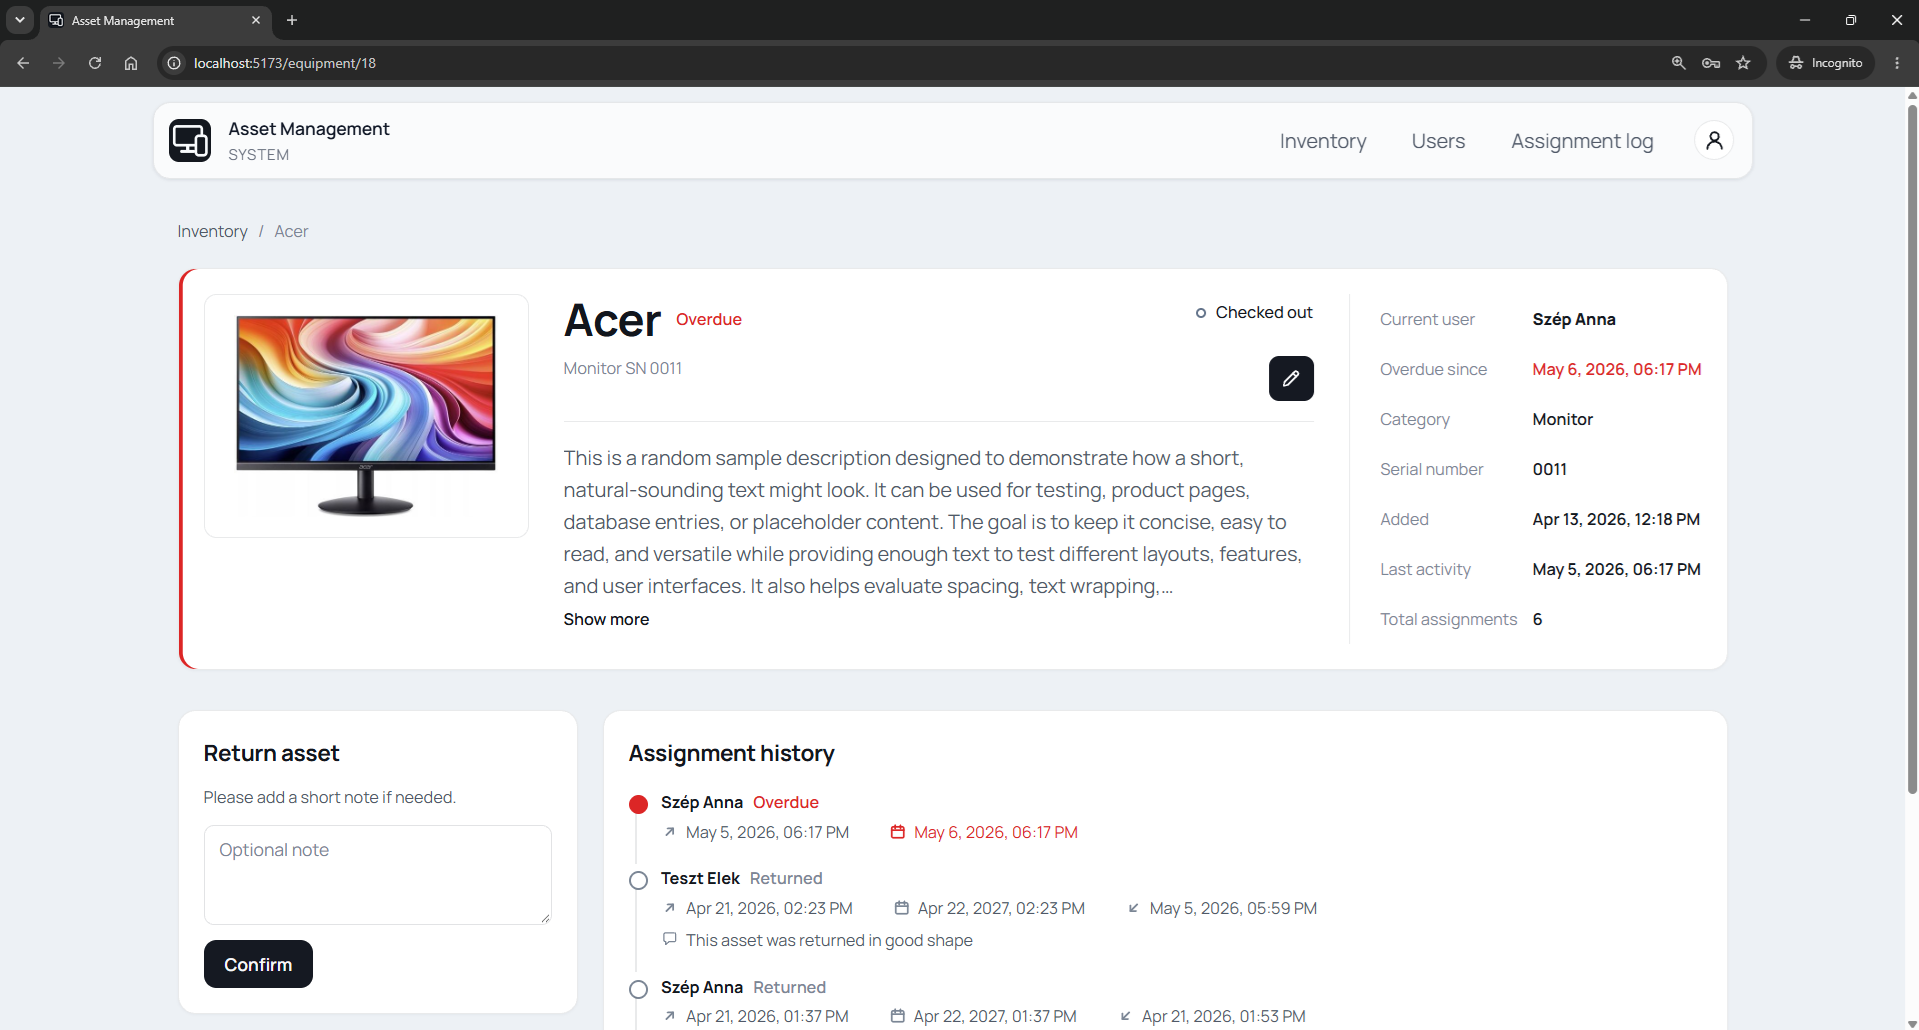
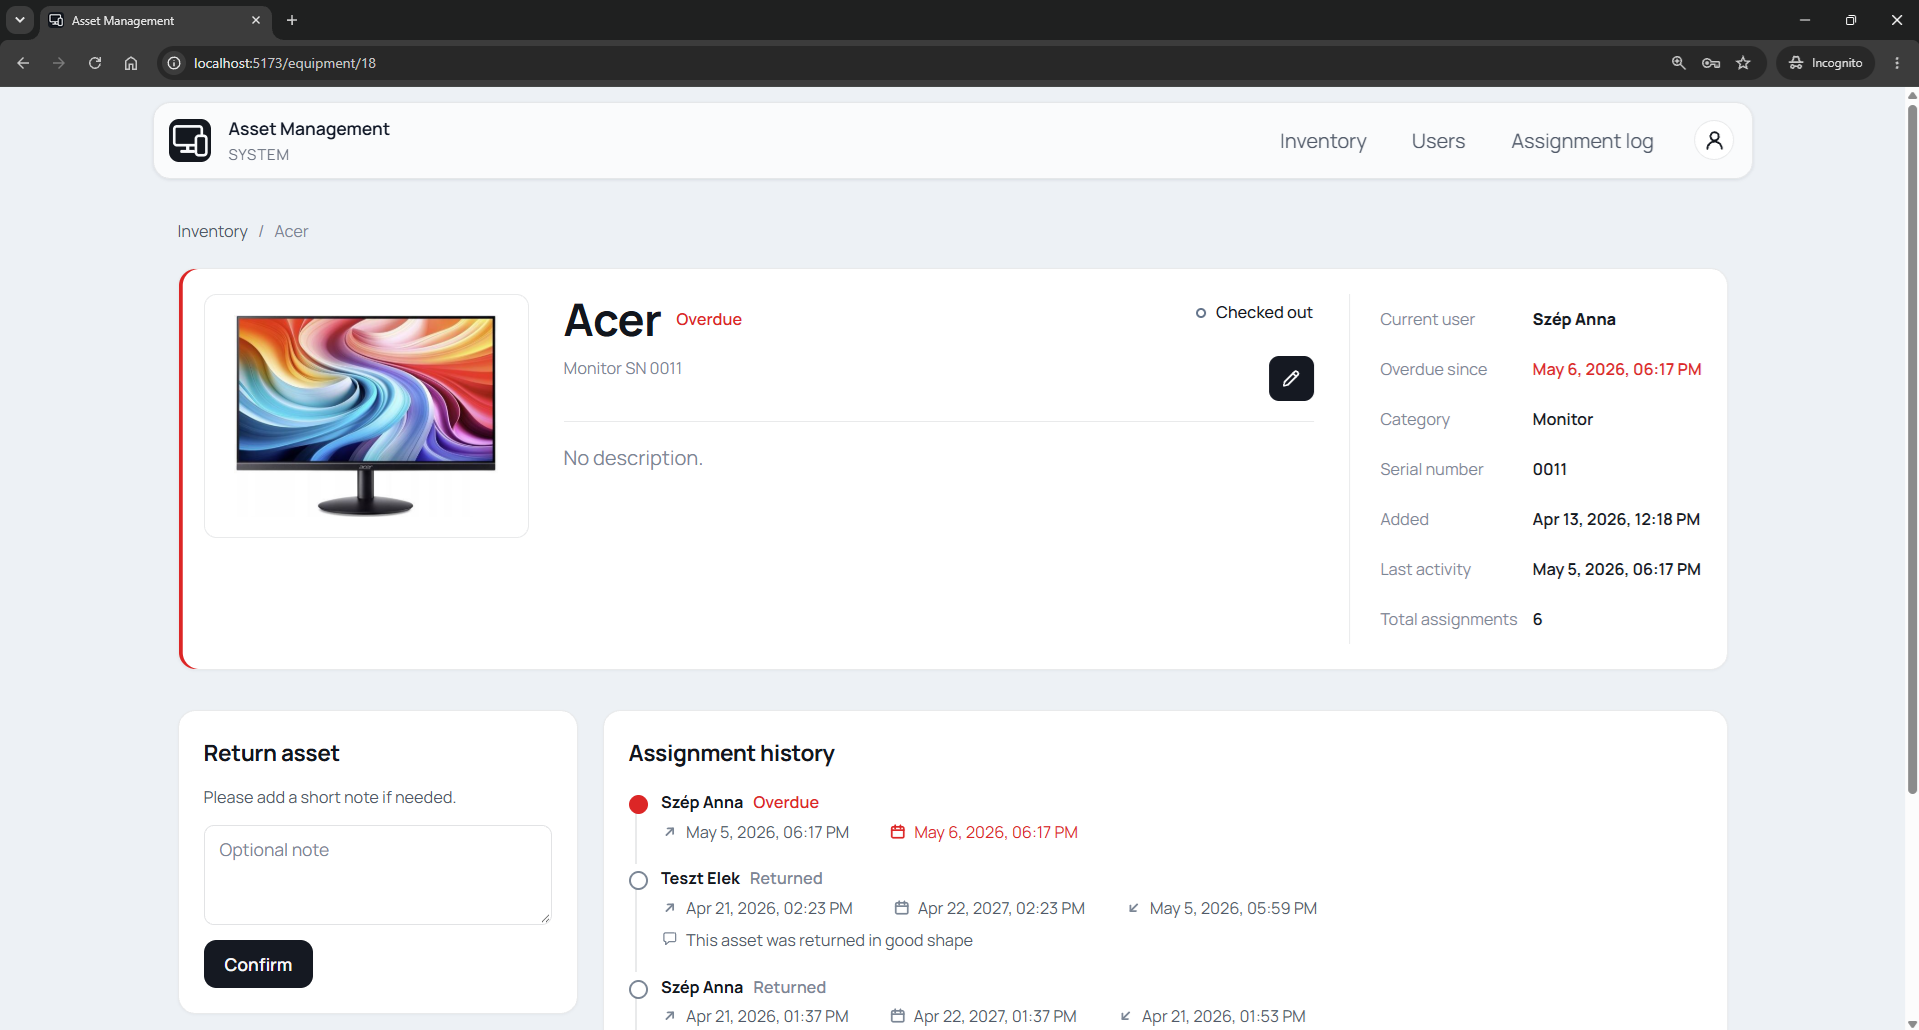
docs(readme): add the demo section and restructure the README

Changed region(s): [[0.2767, 0.435, 0.6764, 0.6214]]

diff --git a/README.md b/README.md
@@ -9,14 +9,25 @@
 
 This full-stack portfolio project is designed for smaller IT teams as an internal asset tracker. It is meant for those who have outgrown spreadsheets but do not need a full enterprise tool.
 
-## Screenshots
+## Demo
+
+You can try the app in a [demo environment](https://www.assetmanagement-demo.hu), which is deployed on Azure.
+
+To sign in quickly, use the **Demo admin** or **Demo user** accounts. You can also create your own account.
+
+A few things to know:
+
+- All data is sample data, and it is reset daily.
+- The demo accounts cannot be changed or deleted.
+- The demo runs on free tiers. After some idle time, the first request can take a few seconds while the server wakes up.
+- If the free daily limits are used up, the API is unavailable until midnight UTC.
 
 | Login | Inventory |
 | --- | --- |
 | ![Login page](./docs/screenshots/v3/login.png) | ![Inventory page](./docs/screenshots/v3/inventory.png) |
 
 <details>
-<summary>More screenshots (asset details, user management, user details, profile)</summary>
+<summary>More pages</summary>
 
 ![Asset details page](./docs/screenshots/v3/asset_details.png)
 
@@ -30,124 +41,60 @@ This full-stack portfolio project is designed for smaller IT teams as an interna
 
 ## Features
 
-- JWT login with rate limiting and two roles (admin and regular user)
-- Self-registration for regular users, which can be turned off per environment
-- Search, filters, due-date warnings, card and list views, and sortable columns across the app's lists
-- Checkout and return flow with due dates, notes, and assignment history
-- Admin tools for creating, editing, and deleting assets, moving them in and out of maintenance, and assigning them to users
-- An assignment log for admins with filters
-- User management with role editing, and a page for each user with their current assets and past assignments
-- A `My Items` page where users see their active and returned assets
-- Equipment photos, visible only to signed-in users
-- Bilingual UI (English and Hungarian) with light and dark themes
-
-## Engineering highlights
-
-Some parts of the codebase that go beyond basic CRUD:
-
-- **Every checkout is saved as its own record.** Each record keeps the due date and the return date, so past assignments stay visible. A partial unique index allows only one open checkout per asset, so two users cannot take the same asset at the same time. An integration test checks this in CI by sending two checkout requests at once, with a real PostgreSQL database behind the API.
-- **Old sessions end right away.** On each request, the API checks the role and token version against the database, so after a role change, a password change, or account deletion, old tokens stop working. This costs one extra database query per request.
-- **Images stay private.** Uploads are checked by their real file type (magic bytes), and only signed-in users can see them. The frontend loads each image with the token and shows it as a blob, because an `<img>` tag cannot send a token.
-- **Status changes have their own endpoints.** The general update endpoint cannot change an asset's status. Checkout, return, and maintenance go through separate endpoints, and each one checks whether the change is allowed. For example, a checked-out asset cannot go to maintenance.
-- **Error messages use shared codes.** The API sends a code like `equipment.notAvailableForCheckout` with each error from the services, and the frontend turns it into an English or Hungarian message.
-- **Search and filter settings are saved in the URL.** Search text, filters, sorting, and the card or list layout stay the same after a page refresh, and the same view can be shared as a link.
+- Sign-in with two roles (admin and regular user)
+- Self-registration for regular users (can be disabled per environment)
+- Searching, filtering, and sorting across the app's lists
+- Card and list views on the main list pages
+- List settings (search, filters, sorting, and view) persist after page refresh and can be shared via URL
+- Checkout and return process with due dates and notes, plus assignment history
+- Admin tools for creating, editing, deleting assets, and setting maintenance status
+- An Assignment log page for admins
+- User management for admins, including data and role editing
+- A personal My Items page for users
+- Password change on the Profile page
+- Asset image uploads via create/edit forms
+- Settings for language (English and Hungarian) and theme (light and dark)
 
 ## Architecture
 
+The diagram shows the **demo setup**. The React app runs in the browser and calls the ASP.NET Core REST API. After sign-in, it sends a JWT with every request.
+
 ```mermaid
 flowchart LR
-    B[Browser] -->|"localhost:8080"| N["Nginx<br>serves built React app"]
-    N -->|"/api"| A["ASP.NET Core 10 API"]
-    N -->|"/uploads"| A
-    A --> D[("PostgreSQL 16")]
-    A --> V[/"uploads volume"/]
+    B["Browser<br>React app"] -->|"static files"| S["Azure Static Web Apps"]
+    B -->|"/api"| A["Azure App Service F1<br>API container"]
+    B -->|"/uploads"| A
+    A -->|"app data"| D[("Neon PostgreSQL")]
+    A -->|"image files"| H[/"App Service storage<br>/home"/]
 ```
 
-The diagram shows the **production-like** mode. The development stack has no Nginx. There the Vite dev server runs on port 5173 and calls the API directly on port 5071, with CORS configured for it.
+### Project structure
 
-Each backend request goes through a thin controller to a service layer behind interfaces, which uses EF Core with PostgreSQL. Responses use DTOs, so EF entities never leave the API.
+Each **backend** request goes through a thin controller to a service layer behind interfaces, which uses EF Core with PostgreSQL. The API returns DTOs or short result codes. EF entities are only used inside the API.
+
+The **frontend** uses React Router, and pages that need sign-in are wrapped in a protected route. All `/api` calls go through one Axios client. It adds the token and handles 401 and 403 responses. Auth, language, and theme state are kept in React contexts.
+
+The **data model** has three entities (User, Equipment, Checkout). A checkout record links one user and one equipment item, and it is active while its return date is empty. An item can be *available*, *checked out*, or in *maintenance*.
 
 ```text
 api/AssetManagement/      ASP.NET Core solution (API project and two test projects)
 frontend/                 React + TypeScript app (Vite)
-compose.yaml              development stack
+compose.yaml              local development setup
 compose.prod.yaml         production-like overrides (Nginx, no exposed API/DB ports)
-.github/workflows/ci.yml  CI pipeline
+compose.demo.yaml         demo setup with a separate database
+.github/workflows/ci.yml  CI pipeline with automated tests
+.github/workflows/cd.yml  CD pipeline for manual demo deployment
 ```
 
-## Getting started
+### Demo deployment
 
-You need Docker Desktop (or Docker Engine with Compose).
+The Azure demo runs the API in the `Demo` environment (`appsettings.Demo.json`). In this mode, the API loads sample data, resets it on startup if it is more than a day old, and protects the demo accounts.
 
-```sh
-cp .env.example .env
-docker compose up --build -d
-```
-
-Open `http://localhost:5173`. The example values are ready for local development, including a bootstrap admin account:
-
-- email: `admin@assetmanagement.local`
-- password: `Admin123!`
-
-EF Core migrations run automatically on startup, and the bootstrap admin is created from the `.env` values. Public registration creates regular user accounts only.
-
-### Production-like mode
-
-```sh
-docker compose -f compose.yaml -f compose.prod.yaml up --build -d
-```
-
-Open `http://localhost:8080`. In this mode the frontend is a static build served by Nginx, everything runs on one origin, registration is disabled, and login rate limiting is on.
-
-## Configuration
-
-All settings come from a root `.env` file, documented in [.env.example](./.env.example). The main groups:
-
-- host ports and PostgreSQL credentials
-- JWT key, issuer, and audience (the API does not start without a key, and the example key is for local use only)
-- registration and bootstrap admin switches
-- login rate limit settings
-- CORS origins
-
-Database data, uploaded images, and ASP.NET Data Protection keys live in named Docker volumes, so they are kept when containers are recreated.
-
-## Tests and CI
-
-- **Backend, 22 xUnit tests.** Controller-level tests using an in-memory EF Core database. They cover auth rules, the equipment and checkout lifecycle, and user management edge cases such as last-admin protection.
-- **Backend, 3 integration tests.** Full HTTP tests against a real PostgreSQL container via Testcontainers. They cover the concurrent checkout race, the duplicate-registration race, and token invalidation on password change. Running them requires Docker.
-- **Frontend, 25 Vitest tests.** API error and message mapping, the success and error message component, the asset form, the page language setting, and a check that the English and Hungarian texts have the same keys. The component tests use Testing Library.
-
-To run the tests locally, you need the .NET 10 SDK and Node.js.
-
-```sh
-# backend
-cd api/AssetManagement && dotnet test
-
-# frontend
-cd frontend && npm ci && npm run test
-```
-
-GitHub Actions runs this pipeline automatically.
-
-```mermaid
----
-title: CI pipeline
----
-%%{init: {"flowchart": {"nodeSpacing": 20}}}%%
-flowchart LR
-    T["Push to main or PR"] --> B1
-    T --> F1
-    subgraph Backend
-        B1["Restore"] --> B2["Build"] --> B3["Unit + integration tests"]
-    end
-    subgraph Frontend
-        F1["npm ci"] --> F2["Lint, 0 warnings"] --> F3["Typecheck"] --> F4["Tests"] --> F5["Build"]
-    end
-```
+The [CD workflow](./.github/workflows/cd.yml) is triggered manually. It builds the API image, pushes it to GitHub Container Registry, and deploys it to Azure App Service. Then it deploys the frontend and runs a short smoke test. The API deployment authenticates with Azure through OpenID Connect (OIDC).
 
 ## API overview
 
-The API serves JSON under `/api` with JWT Bearer authentication, and Swagger UI is available in development mode. In the endpoints, `checkout` means one assignment record of an asset to a user.
+The API serves JSON under `/api` with JWT Bearer authentication. You can try all endpoints in the demo's [Swagger UI](https://ams-demo-api-f6g3hvfudcgaajd2.germanywestcentral-01.azurewebsites.net/swagger), or locally at `http://localhost:5071/swagger`. In the API, `checkout` means an assignment record.
 
 <details>
 <summary>Endpoint reference</summary>
@@ -167,7 +114,7 @@ The API serves JSON under `/api` with JWT Bearer authentication, and Swagger UI 
 | `GET` | `/api/equipment` | Signed-in users | List inventory items |
 | `GET` | `/api/equipment/{id}` | Signed-in users | Get asset details |
 | `POST` | `/api/equipment` | Admin | Create an asset, optionally with an image |
-| `PUT` | `/api/equipment/{id}` | Admin | Update asset details and image |
+| `PUT` | `/api/equipment/{id}` | Admin | Update asset details, and replace or remove the image |
 | `DELETE` | `/api/equipment/{id}` | Admin | Delete an asset if it is not assigned |
 | `POST` | `/api/equipment/{id}/checkout` | Signed-in users | Create an asset assignment |
 | `POST` | `/api/equipment/{id}/return` | Assigned user or admin | Return an asset and close the assignment |
@@ -195,26 +142,69 @@ The API serves JSON under `/api` with JWT Bearer authentication, and Swagger UI 
 
 </details>
 
-Some rules the API checks beyond the access levels above:
+Some rules the API checks beyond the access levels:
 
-- the last admin account cannot be deleted, and admins cannot remove their own admin role
-- assets with an active assignment cannot be deleted
-- admins assign assets to regular users and cannot assign assets to themselves
+- Admins cannot delete their own account or remove their own admin role.
+- The last admin cannot be deleted or lose the admin role.
+- Assets with an active assignment cannot be deleted.
+- Admins can assign assets only to regular users.
+
+## Tests and CI
+
+```mermaid
+---
+title: CI pipeline
+---
+%%{init: {"flowchart": {"nodeSpacing": 20}}}%%
+flowchart LR
+    T["Push to main or PR"] --> B1
+    T --> F1
+    subgraph Backend
+        B1["Restore"] --> B2["Build"] --> B3["Unit + integration tests"]
+    end
+    subgraph Frontend
+        F1["npm ci"] --> F2["Lint, 0 warnings"] --> F3["Typecheck"] --> F4["Tests"] --> F5["Build"]
+    end
+```
+
+The CI pipeline runs three groups of tests:
+
+- **Backend, 30 unit tests (xUnit).** Mostly controller-level tests using an in-memory EF Core database. They cover auth rules, the equipment and checkout lifecycles, user management edge cases such as last-admin protection, the JWT key check, and the upload folder setting.
+- **Backend, 3 integration tests.** Full HTTP tests against a real PostgreSQL container via Testcontainers. They cover the concurrent checkout race, the duplicate-registration race, and token invalidation on password change.
+- **Frontend, 25 Vitest tests.** They cover API error and message mapping, the success and error message component, the asset form, the page `lang` attribute, and the English and Hungarian texts (same keys, no empty texts). The component tests use Testing Library.
+
+## Getting started
+
+You need Docker Desktop (or Docker Engine with Compose). All settings are documented in [.env.example](./.env.example).
+
+```sh
+# create .env from the example with a random JWT key
+sed "s|^JWT_KEY=.*|JWT_KEY=$(openssl rand -base64 48)|" .env.example > .env
+
+# build and start the app in development mode
+docker compose up --build -d
+```
+
+Open `http://localhost:5173`. In development mode, the app starts with an empty database and a bootstrap admin account:
+
+- email: `admin@assetmanagement.local`
+- password: `Admin123!`
+
+To run the app with sample data, start the demo mode with `docker compose -f compose.demo.yaml up --build -d` and open `http://localhost:5174`.
 
 ## Known limitations
 
-This is a portfolio project, so some production decisions are intentionally simple. These are the trade-offs I know about and the direction I would take next:
+Some production decisions in this portfolio project are kept simple on purpose. These are the trade-offs I know about and the direction I would take next:
 
 | Current state | Production direction |
 | --- | --- |
 | JWT stored in browser `localStorage` | Secure `HttpOnly` cookies |
 | Two fixed roles (admin, user) | Policy-based authorization for finer permissions |
-| Deleting a user or an asset also deletes its assignment history | Deactivate users and archive assets instead, so the history is kept |
+| Deleting a user or an asset also deletes its assignment history | Deactivate users and archive assets, and keep their history |
 | IP-based login rate limiting | Add per-account lockout rules |
-| EF Core migrations run on startup | Separate migration step in deployment, with backups |
-| Uploads stored on a Docker volume | Object storage with scanning and backups |
-| Secrets come from local environment variables | Secret manager in deployed environments |
-| No HTTPS or real domain in the local setup | TLS, domain routing, certificate renewal |
+| EF Core migrations run on startup | A separate migration step in the CD workflow, with database backups |
+| Uploads stored on the API server's disk | Object storage with scanning and backups |
+| Secrets are environment variables (`.env` locally, App Service settings in the demo) | A secret manager, such as Azure Key Vault |
 | Unit tests plus API integration tests | Frontend end-to-end coverage |
 | No monitoring | Structured logs, health checks, metrics, error tracking |
 
